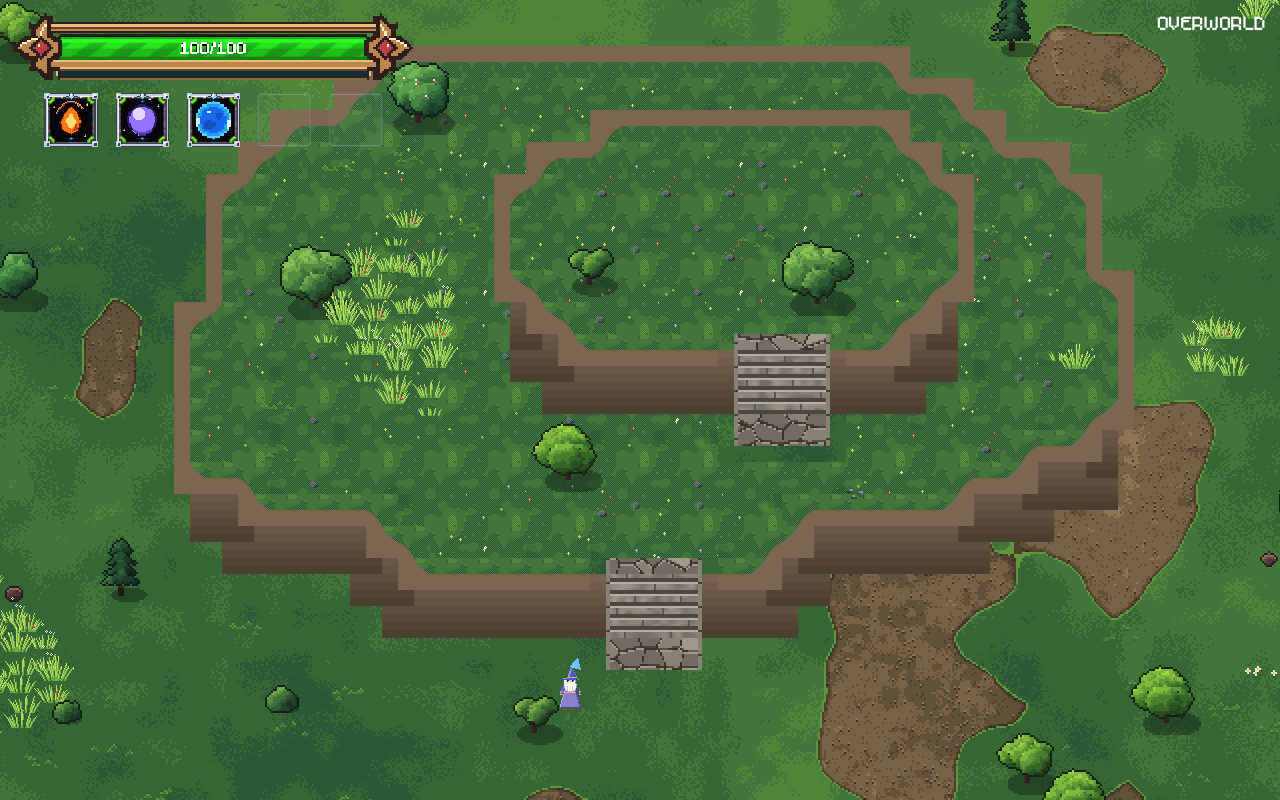
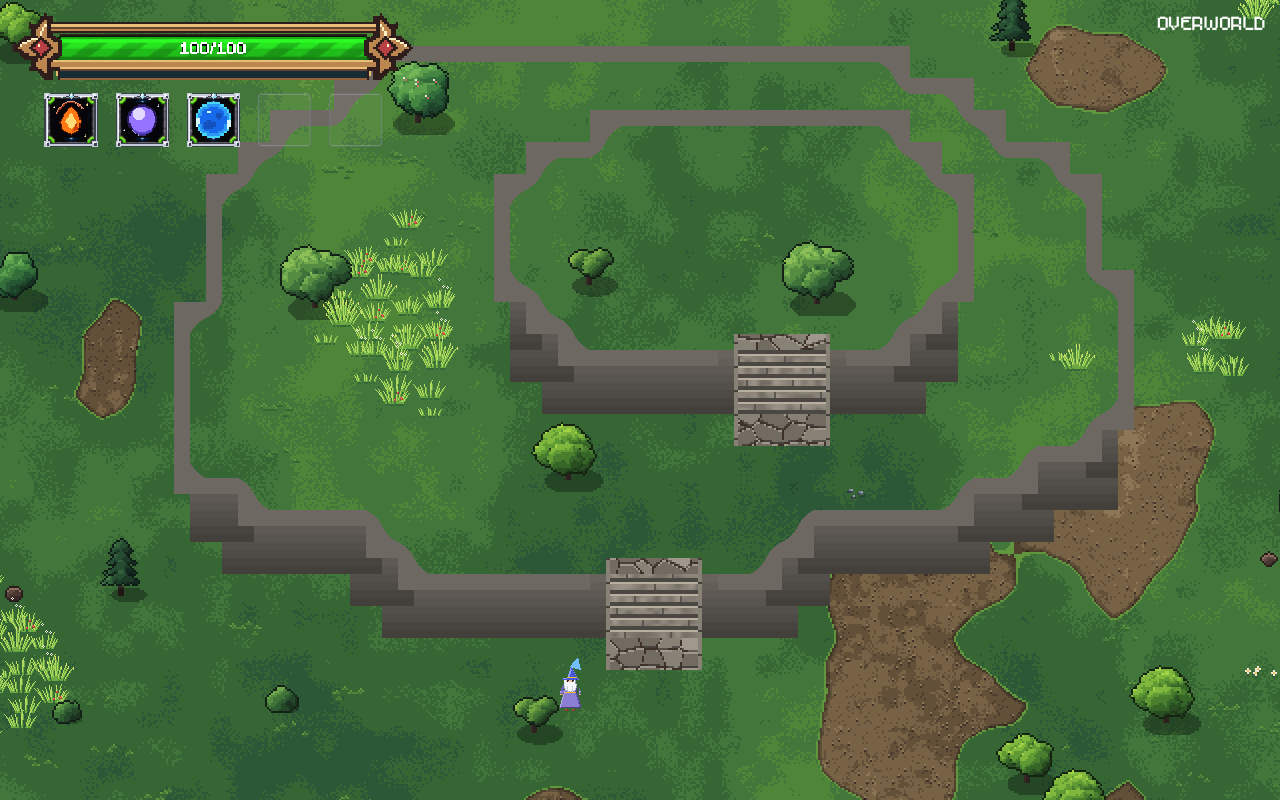
Restore current overworld grass paint on terrace tiles

Changed region(s): [[0.1562, 0.0625, 0.875, 0.7188], [0.4688, 0.5625, 0.5312, 0.5938], [0.5312, 0.5312, 0.5625, 0.5625]]

diff --git a/assets/sprites/SOURCE.md b/assets/sprites/SOURCE.md
@@ -745,3 +745,7 @@ SpriteU art/terrace-cliffs at 0f93f86: original irregular faceted rock and broke
 ### Discrete sixteen-mask terraces, flat local colour
 
 SpriteU `gen_terrace_dualgrid.py` / `terrace-grass-cliff-16.json` exports 128x128 (4x4, 32px cells), TL1 TR2 BR4 BL8 masks. Separate 256x64 flat front-fill atlas uses #886f58. No painted outlines or shadows. Ground source is gangU's own retained grass tile pixel grid; full interiors also use existing grass variant atlas. `terrace_tile_art.gd` draws from unchanged tops/bases/walls/stairs; shader-only face lighting is separate. Old relief contour paint is disabled except stair art, removing its external green foot band. Elevated surfaces no longer show the underlying dirt paint. Existing dirt outside terraces stays. Coast remains shader geometry with flat local rock colour, not this tile layer.
+
+### Normal overworld grass correction
+
+Old dualgrid grass was a regression. Terrace tile grass regions now use the same world-coordinate fbm/vnoise and exact GRASS_P palette as ground_paint, at the same 2px art grid. Actual 16-mask tile placement remains; the shader paints only the grass local colour, not geometry/masks. Old grass variant texture sampling is removed. Flat rock colour is now #77716a (neutral stone), still no painted shadows. No gameplay/collision data changed.
